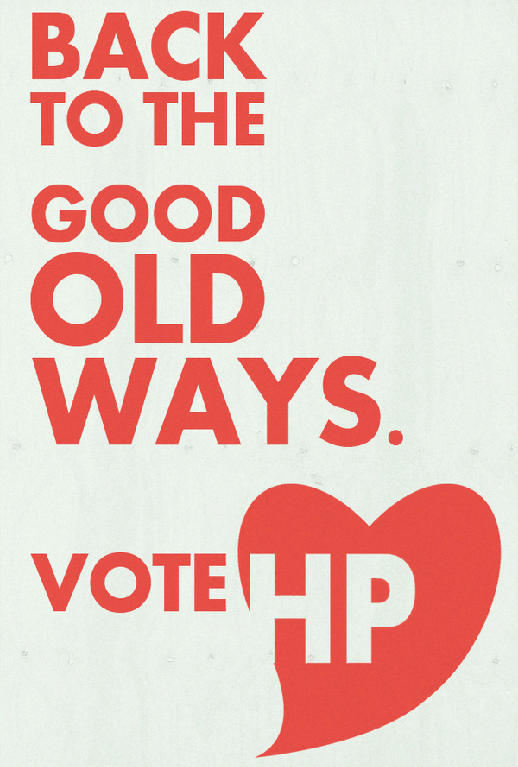
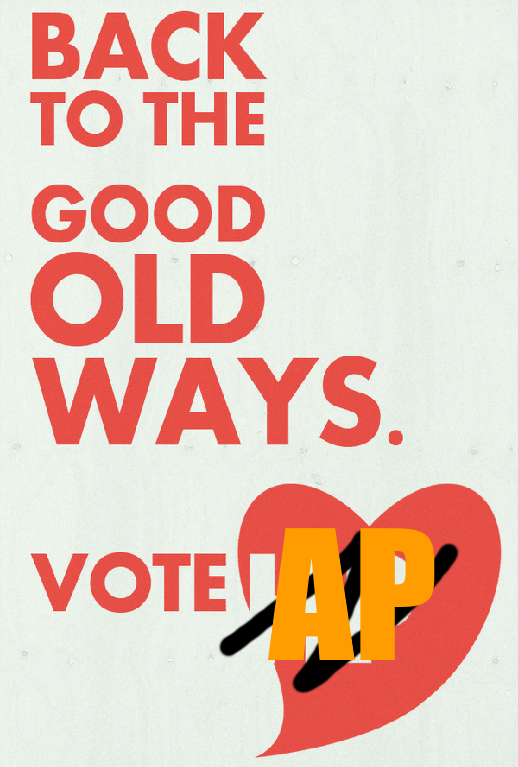
Adam Partia

Changed region(s): [[0.4015, 0.6897, 0.8958, 0.8996]]

diff --git a/out/html/d3-linegraph.js b/out/html/d3-linegraph.js
@@ -19,10 +19,10 @@ d3.linegraph = function(noTicks, noDots, parties, partyColors, partyNames, dataM
         parties = ['spd', 'kpd', 'ddp', 'z', 'dvp', 'dnvp', 'nsdap', 'other'];
     }
     if (!partyColors) {
-        partyColors = {'spd': '#E3000F', 'kpd': '#8B0000', 'ddp': '#DCCA4A', 'z': '#000', 'dvp': '#D5AC27', 'dnvp': '#3f7bc1', 'nsdap': '#954B00', 'other': '#a0a0a0'};
+        partyColors = {'spd': '#ffa600', 'kpd': '#8B0000', 'ddp': '#DCCA4A', 'z': '#000', 'dvp': '#D5AC27', 'dnvp': '#3f7bc1', 'nsdap': '#954B00', 'other': '#a0a0a0'};
     }
     if (!partyNames) {
-        partyNames = {'spd': 'SPD', 'kpd': 'KPD', 'ddp': 'DDP', 'z': 'Z + BVP', 'dvp': 'DVP', 'dnvp': 'DNVP', 'nsdap': 'NSDAP', 'other': 'Others'};
+        partyNames = {'spd': 'AP', 'kpd': 'KPD', 'ddp': 'DDP', 'z': 'Z + BVP', 'dvp': 'DVP', 'dnvp': 'DNVP', 'nsdap': 'NSDAP', 'other': 'Others'};
     }
     if (!additionalMonths) {
         additionalMonths = 10;
